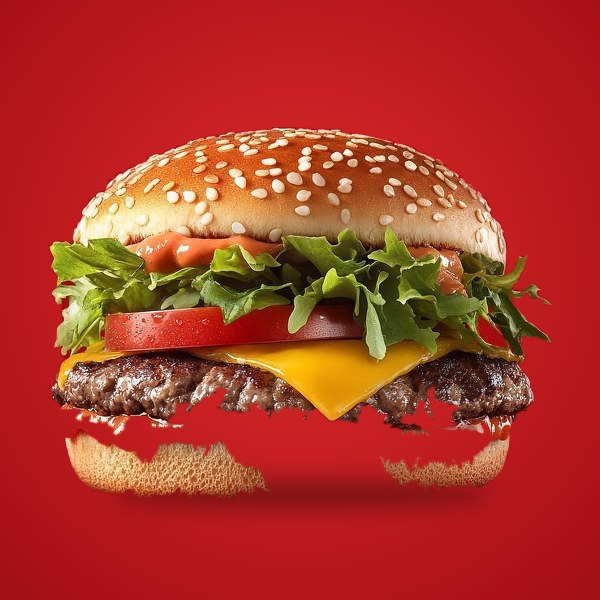
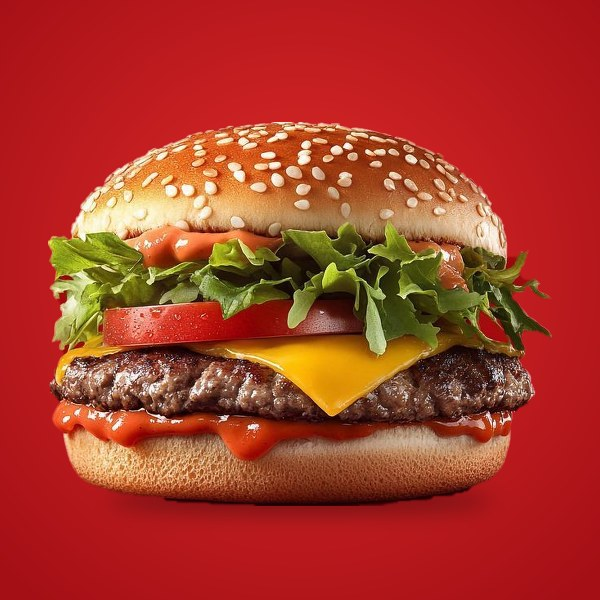
hapus 9 menu, ganti foto burger ayam krispi

diff --git a/script.js b/script.js
@@ -5,6 +5,7 @@ function buatLinkWA(pesan) {
 const linkWA = buatLinkWA("Halo Mahaja, saya mau pesan");
 document.getElementById("wa-sampul").href = linkWA;
 document.getElementById("wa-kontak").href = linkWA;
+
 const menu = [
   { grup: "minuman", nama: "Es Teh Original", harga: "Jumbo 5K<br>Reguler 3K", gambar: "es-teh-original.jpg" },
   { grup: "minuman", nama: "Es Teh Hijau", harga: "Jumbo 6K<br>Reguler 4K", gambar: "es-teh-hijau.jpg" },
@@ -14,31 +15,26 @@ const menu = [
   { grup: "minuman", nama: "Es Lemontea", harga: "10K", gambar: "es-lemontea.jpg" },
   { grup: "minuman", nama: "Es Leci Tea", harga: "8K", gambar: "es-leci.jpg" },
   { grup: "minuman", nama: "Es Milo", harga: "10K", gambar: "es-milo.jpg" },
-  { grup: "minuman", nama: "Es Chocolatos", harga: "10K", gambar: "es-chocolatos.jpg" },
-  { grup: "minuman", nama: "Es Chocolatos Matcha", harga: "10K", gambar: "es-chocolatos-matcha.jpg" },
-  { grup: "minuman", nama: "Es Beng-Beng", harga: "10K", gambar: "es-bengbeng.jpg" },
-  { grup: "minuman", nama: "Es Ovaltine", harga: "10K", gambar: "es-ovaltine.jpg" },
+
   { grup: "minuman", nama: "Es Red Velvet", harga: "10K", gambar: "es-red-velvet.jpg" },
   { grup: "minuman", nama: "Es Cappuccino", harga: "10K", gambar: "es-cappuccino.jpg" },
   { grup: "minuman", nama: "Es Kopi Aren", harga: "10K", gambar: "es-kopi-aren.jpg" },
-  { grup: "minuman", nama: "Es GD Cappuccino", harga: "10K", gambar: "gd-cappuccino.jpg" },
-  { grup: "minuman", nama: "Es GD Freeze", harga: "10K", gambar: "gd-freeze.jpg" },
-  { grup: "minuman", nama: "Es GD Mocacino", harga: "10K", gambar: "gd-mocacino.jpg" },
 
-  { grup: "burger", nama: "Ayam Krispi Regular", harga: "13K", gambar: "burger-beef.jpg" },
-  { grup: "burger", nama: "Ayam Krispi Double", harga: "17K", gambar: "burger-beef.jpg" },
+
+  { grup: "burger", nama: "Ayam Krispi Regular", harga: "13K", gambar: "burger-ayam.jpg" },
+  { grup: "burger", nama: "Ayam Krispi Double", harga: "17K", gambar: "burger-ayam.jpg" },
   { grup: "burger", nama: "Beef Regular", harga: "13K", gambar: "burger-beef.jpg" },
   { grup: "burger", nama: "Beef Double", harga: "18K", gambar: "burger-beef.jpg" },
   { grup: "burger", nama: "Kentang Goreng", harga: "12K", gambar: "kentang-goreng.jpg" },
   { grup: "burger", nama: "Sosis Bakar", harga: "12K", gambar: "sosis-bakar.jpg" },
-  { grup: "burger", nama: "Risol Mayo", harga: "10K", gambar: "risol-mayo.jpg" },
-  { grup: "burger", nama: "Bakso Bakar", harga: "10K", gambar: "bakso-bakar.jpg" },
 
+  
   { grup: "paket", nama: "Paket Spesial", isi: "Burger, es teh, dan kentang goreng.",
     harga: "Rp22.000 <s>28K</s>", gambar: "paket-spesial.jpg" },
   { grup: "paket", nama: "Paket Istimewa", isi: "Nasi ayam dan es teh. Pilih saus: Original, Teriyaki, atau Hot Lava.",
     harga: "Rp20.000 <s>23K</s>", gambar: "paket-istimewa.jpg" }
 ];
+
 
 menu.forEach(function (item) {
   const kartu = document.createElement("div");
